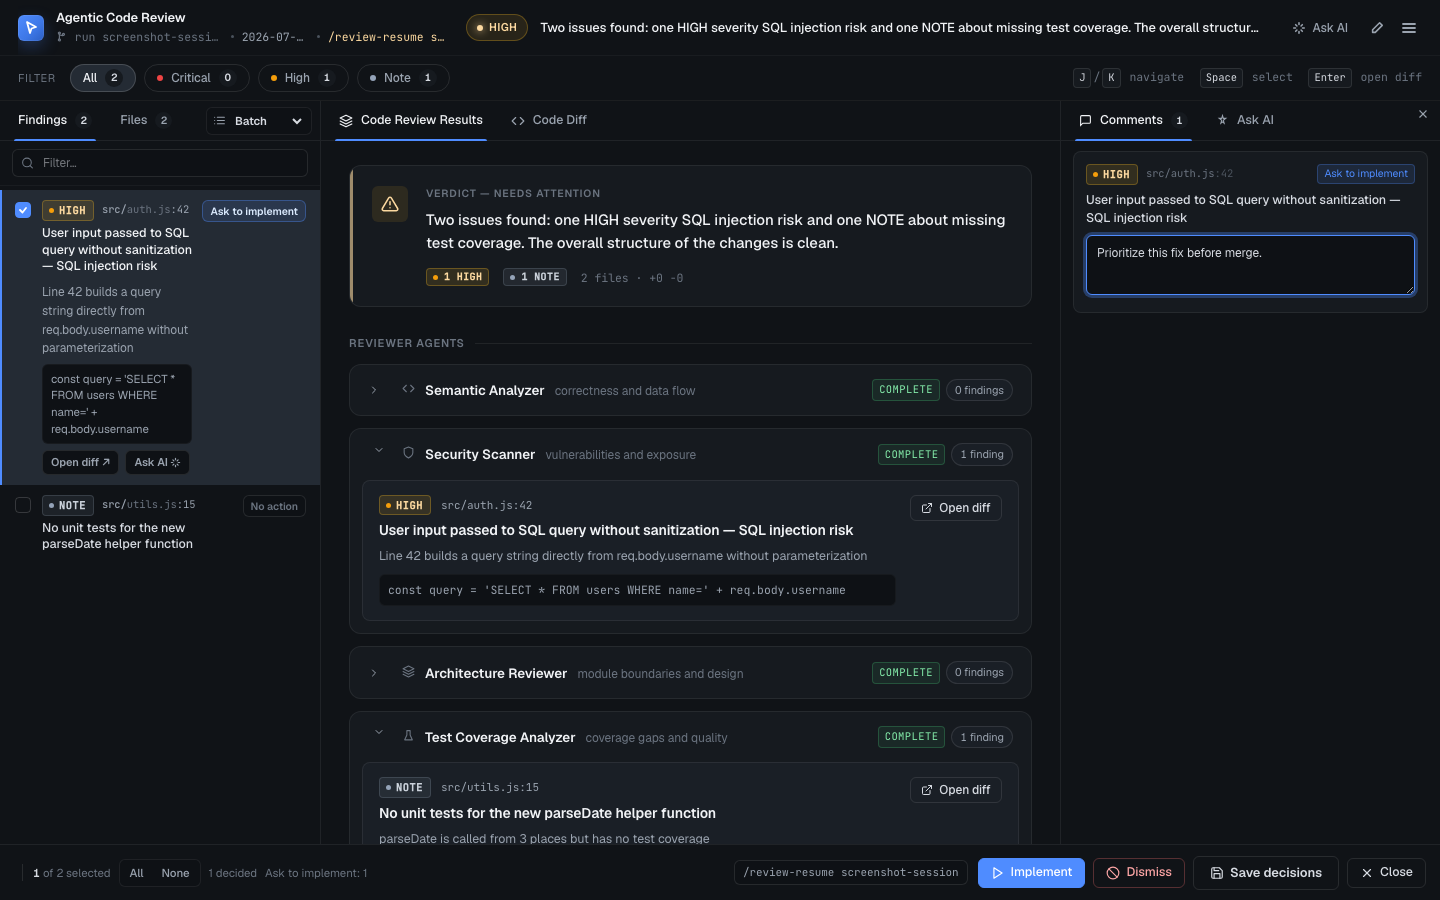
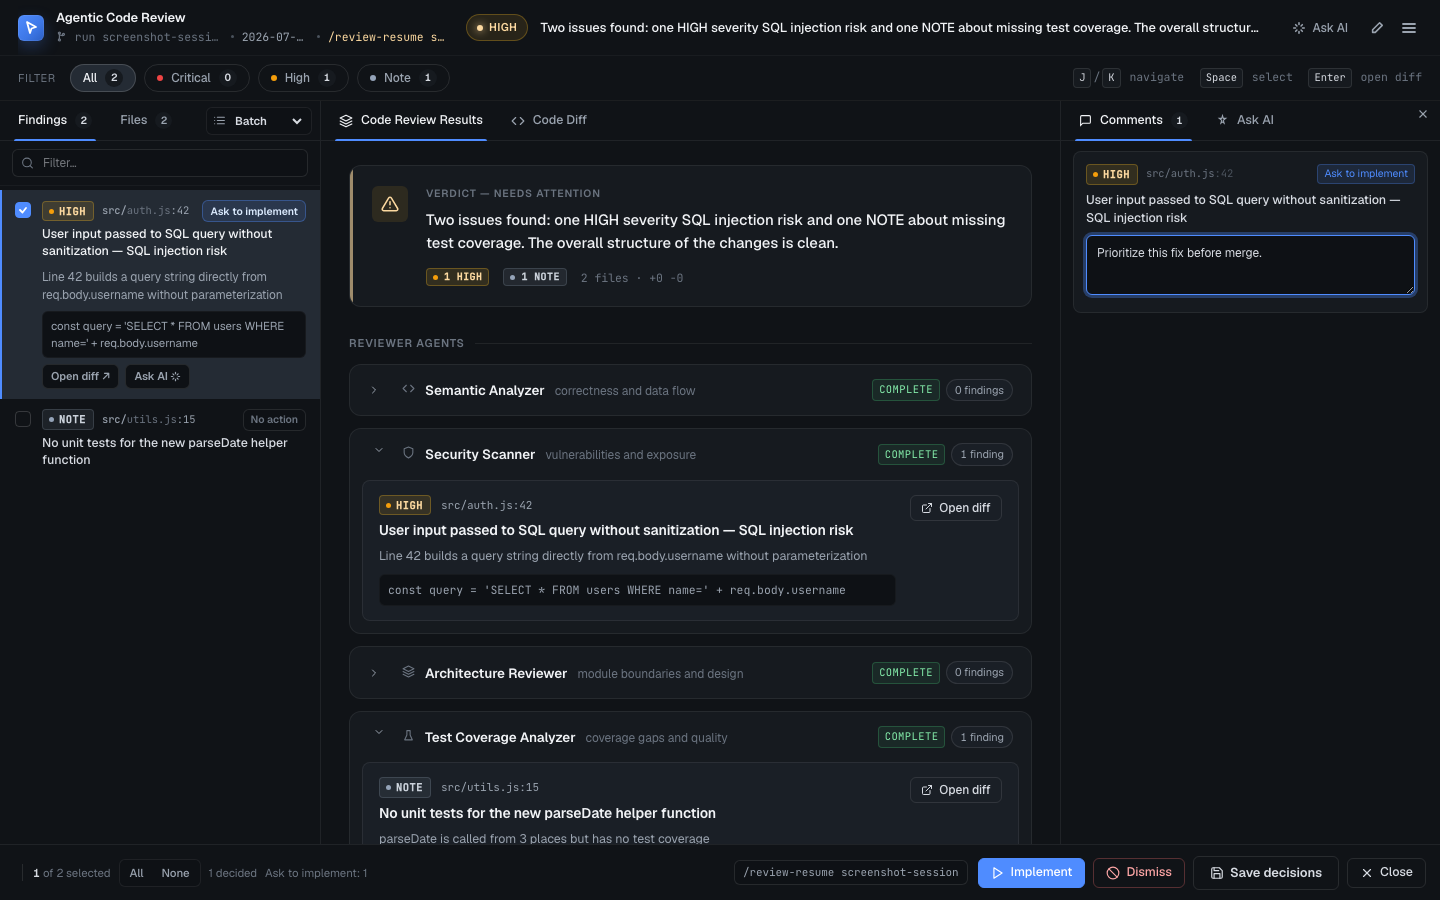
Move finding decision chip onto the severity badge row

Changed region(s): [[0.0, 0.2178, 0.25, 0.6222]]

diff --git a/packages/client/src/components/LeftPanel/FindingsList.tsx b/packages/client/src/components/LeftPanel/FindingsList.tsx
@@ -54,6 +54,9 @@ export default function FindingsList({ findings, selectedId, findingActions, onS
                 <span className="finding__loc" title={f.file}>
                   <strong>{dir}/</strong>{fileLast}<span className="muted">:{f.line ?? ''}</span>
                 </span>
+                <span className={`finding__decision${markedForImplement ? ' finding__decision--implement' : action === 'ignore' ? ' finding__decision--dismiss' : ''}`}>
+                  {actionLabel(action)}
+                </span>
               </div>
               <div className="finding__title">{f.finding}</div>
               {selected && (
@@ -81,9 +84,6 @@ export default function FindingsList({ findings, selectedId, findingActions, onS
                 </div>
               )}
             </div>
-            <span className={`finding__decision${markedForImplement ? ' finding__decision--implement' : action === 'ignore' ? ' finding__decision--dismiss' : ''}`}>
-              {actionLabel(action)}
-            </span>
           </div>
         );
       })}

diff --git a/packages/client/src/globals.css b/packages/client/src/globals.css
@@ -525,7 +525,7 @@ html, body { overflow-x: auto; }
 
 .finding {
   display: grid;
-  grid-template-columns: 18px minmax(0, 1fr) auto;
+  grid-template-columns: 18px minmax(0, 1fr);
   align-items: center;
   gap: 10px;
   padding: 10px 14px 10px 12px;
@@ -637,7 +637,8 @@ html, body { overflow-x: auto; }
   color: var(--fg-strong);
 }
 .finding__decision {
-  align-self: start;
+  margin-left: auto;
+  flex-shrink: 0;
   display: inline-flex;
   align-items: center;
   justify-content: center;
